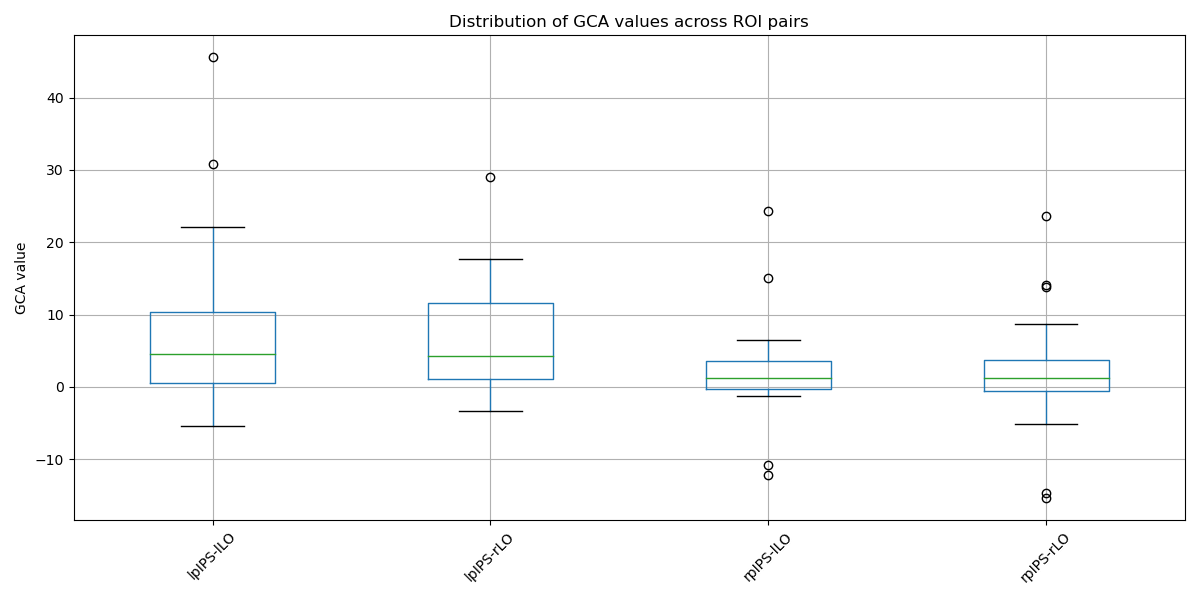
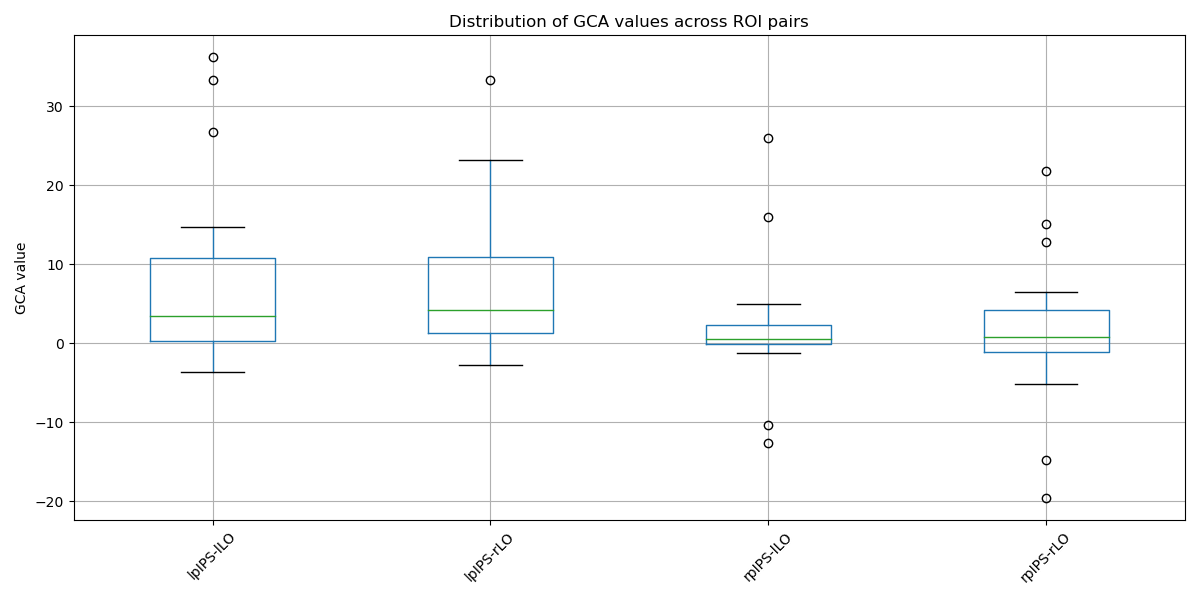
ran gca stats

diff --git a/analyses/final_gca.py b/analyses/final_gca.py
@@ -23,18 +23,13 @@ results_dir = '/user_data/csimmon2/git_repos/ptoc/results'
 raw_dir = params.raw_dir
 
 ##TO RUN ALL
-#sub_info = pd.read_csv(f'{curr_dir}/sub_info.csv')
-#sub_info = sub_info[sub_info['group'] == 'control']
-#subs = sub_info['sub'].tolist()
+sub_info = pd.read_csv(f'{curr_dir}/sub_info.csv')
+sub_info = sub_info[sub_info['group'] == 'control']
+subs = sub_info['sub'].tolist()
+#subs = [sub for sub in all_subs if sub != 'sub-025'] #all subs but 25
 
 #TO RUN ONE
 #subs = ['sub-107']
-
-# TO RUN ALL EXCEPT SUB-025
-sub_info = pd.read_csv(f'{curr_dir}/sub_info.csv')
-sub_info = sub_info[sub_info['group'] == 'control']
-all_subs = sub_info['sub'].tolist()
-subs = [sub for sub in all_subs if sub != 'sub-025']
 
 rois = ['pIPS', 'LO']
 hemispheres = ['left', 'right']
@@ -99,14 +94,7 @@ def make_psy_cov(runs, ss):
     psy[psy < 0] = 0 #remove if run my approach
     return psy
 
-#my_approach - run Vlad's approach to see the difference
-#def extract_cond_ts(ts, cov):
-    #if len(ts) != len(cov):
-        #raise ValueError(f"Length mismatch: ts has {len(ts)} volumes, cov has {len(cov)} volumes")
-    #block_ind = (cov > 0)
-    #return ts[block_ind]
-
-##VLAD'S APPROACH
+##VLAD'S APPROACH cont'd
 def extract_cond_ts(ts, cov):
     block_ind = (cov==1)
     block_ind = np.insert(block_ind, 0, True)
